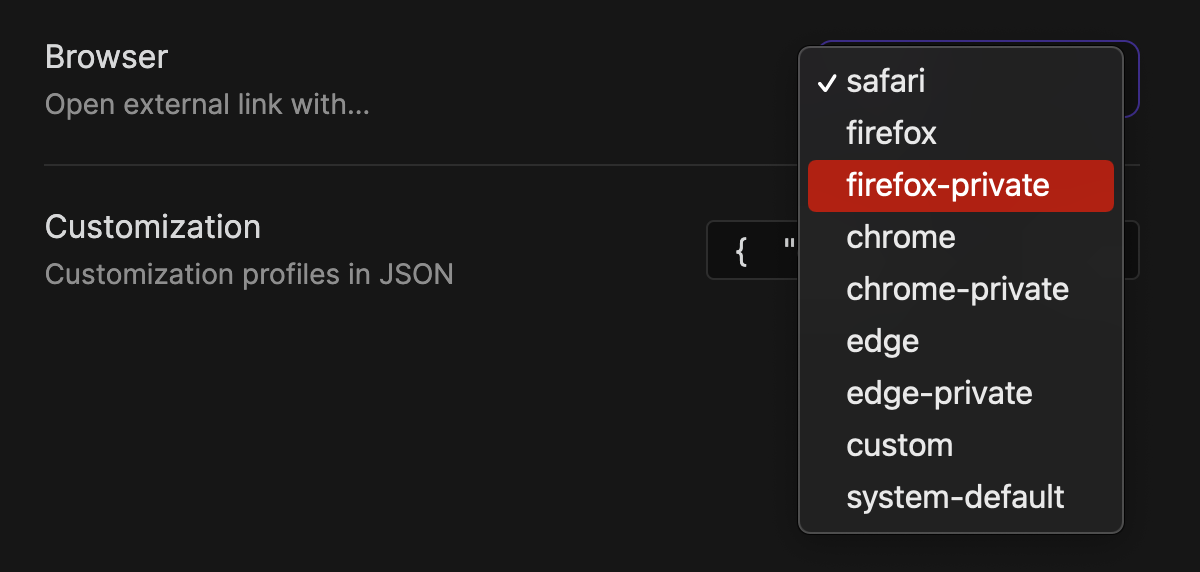
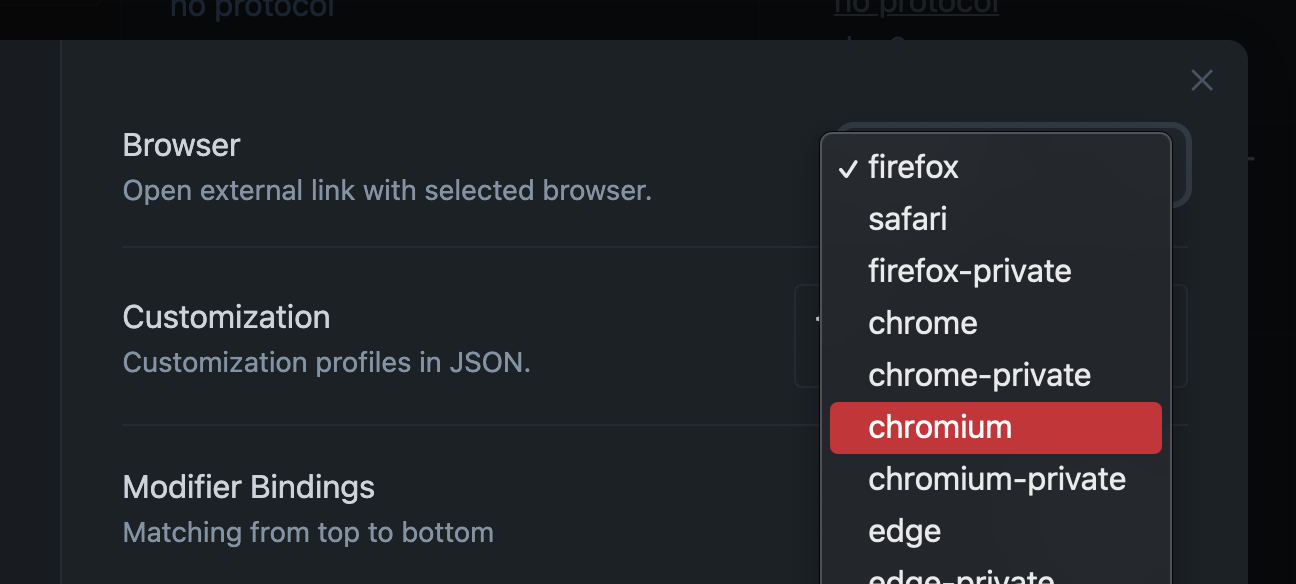
updated: `README`

diff --git a/README.md b/README.md
@@ -19,7 +19,7 @@ Select which browser you want to open external link with in plugin's setting men
 
 ### Customization
 
-Put your custom profile in plugin's setting menu. Profile should contain `name(string): commands(string[])` which is demonstrated in the following:
+Put your custom profile in plugin's settings menu. Profile should contain `name(string): commands(string[])` which is demonstrated in the following:
 _PS._ If the name in the user defined profile is same as the preset, it will be _ignored_.
 
 Examples:
@@ -55,6 +55,18 @@ Examples:
 ```
 
 </details>
+
+### Modifier key bindings
+
+The plugin supports multiple open settings by binding modifier key after version `0.1.5`. You can set the modifier key bindings to match your personal preferences through the plugin's settings menus.
+
+By default, any modifier key and any mouse button (left or middle button) click will use the _global_ browser, i.e. the browser profile selected in the setting `Browser`. You can create a custom modifier binding by clicking the `New` button and setting whether the binding is triggered only by middle mouse button clicks. You can create multiple bindings to personalize the plugin's behavior, and the bindings will be matched from top to bottom.
+
+<p align="center">
+<img width="650px" src="./assets/screenshot_01.png">
+</p>
+
+For example, in the above setting, the link will be opened by chrome when **shift** is pressed and the **middle** mouse button is clicked; the link will be opened by safari when **shift** is pressed and the **left** mouse button is clicked; in other cases, it will be opened by _global_ browser firefox.
 
 ## Changelog
 
